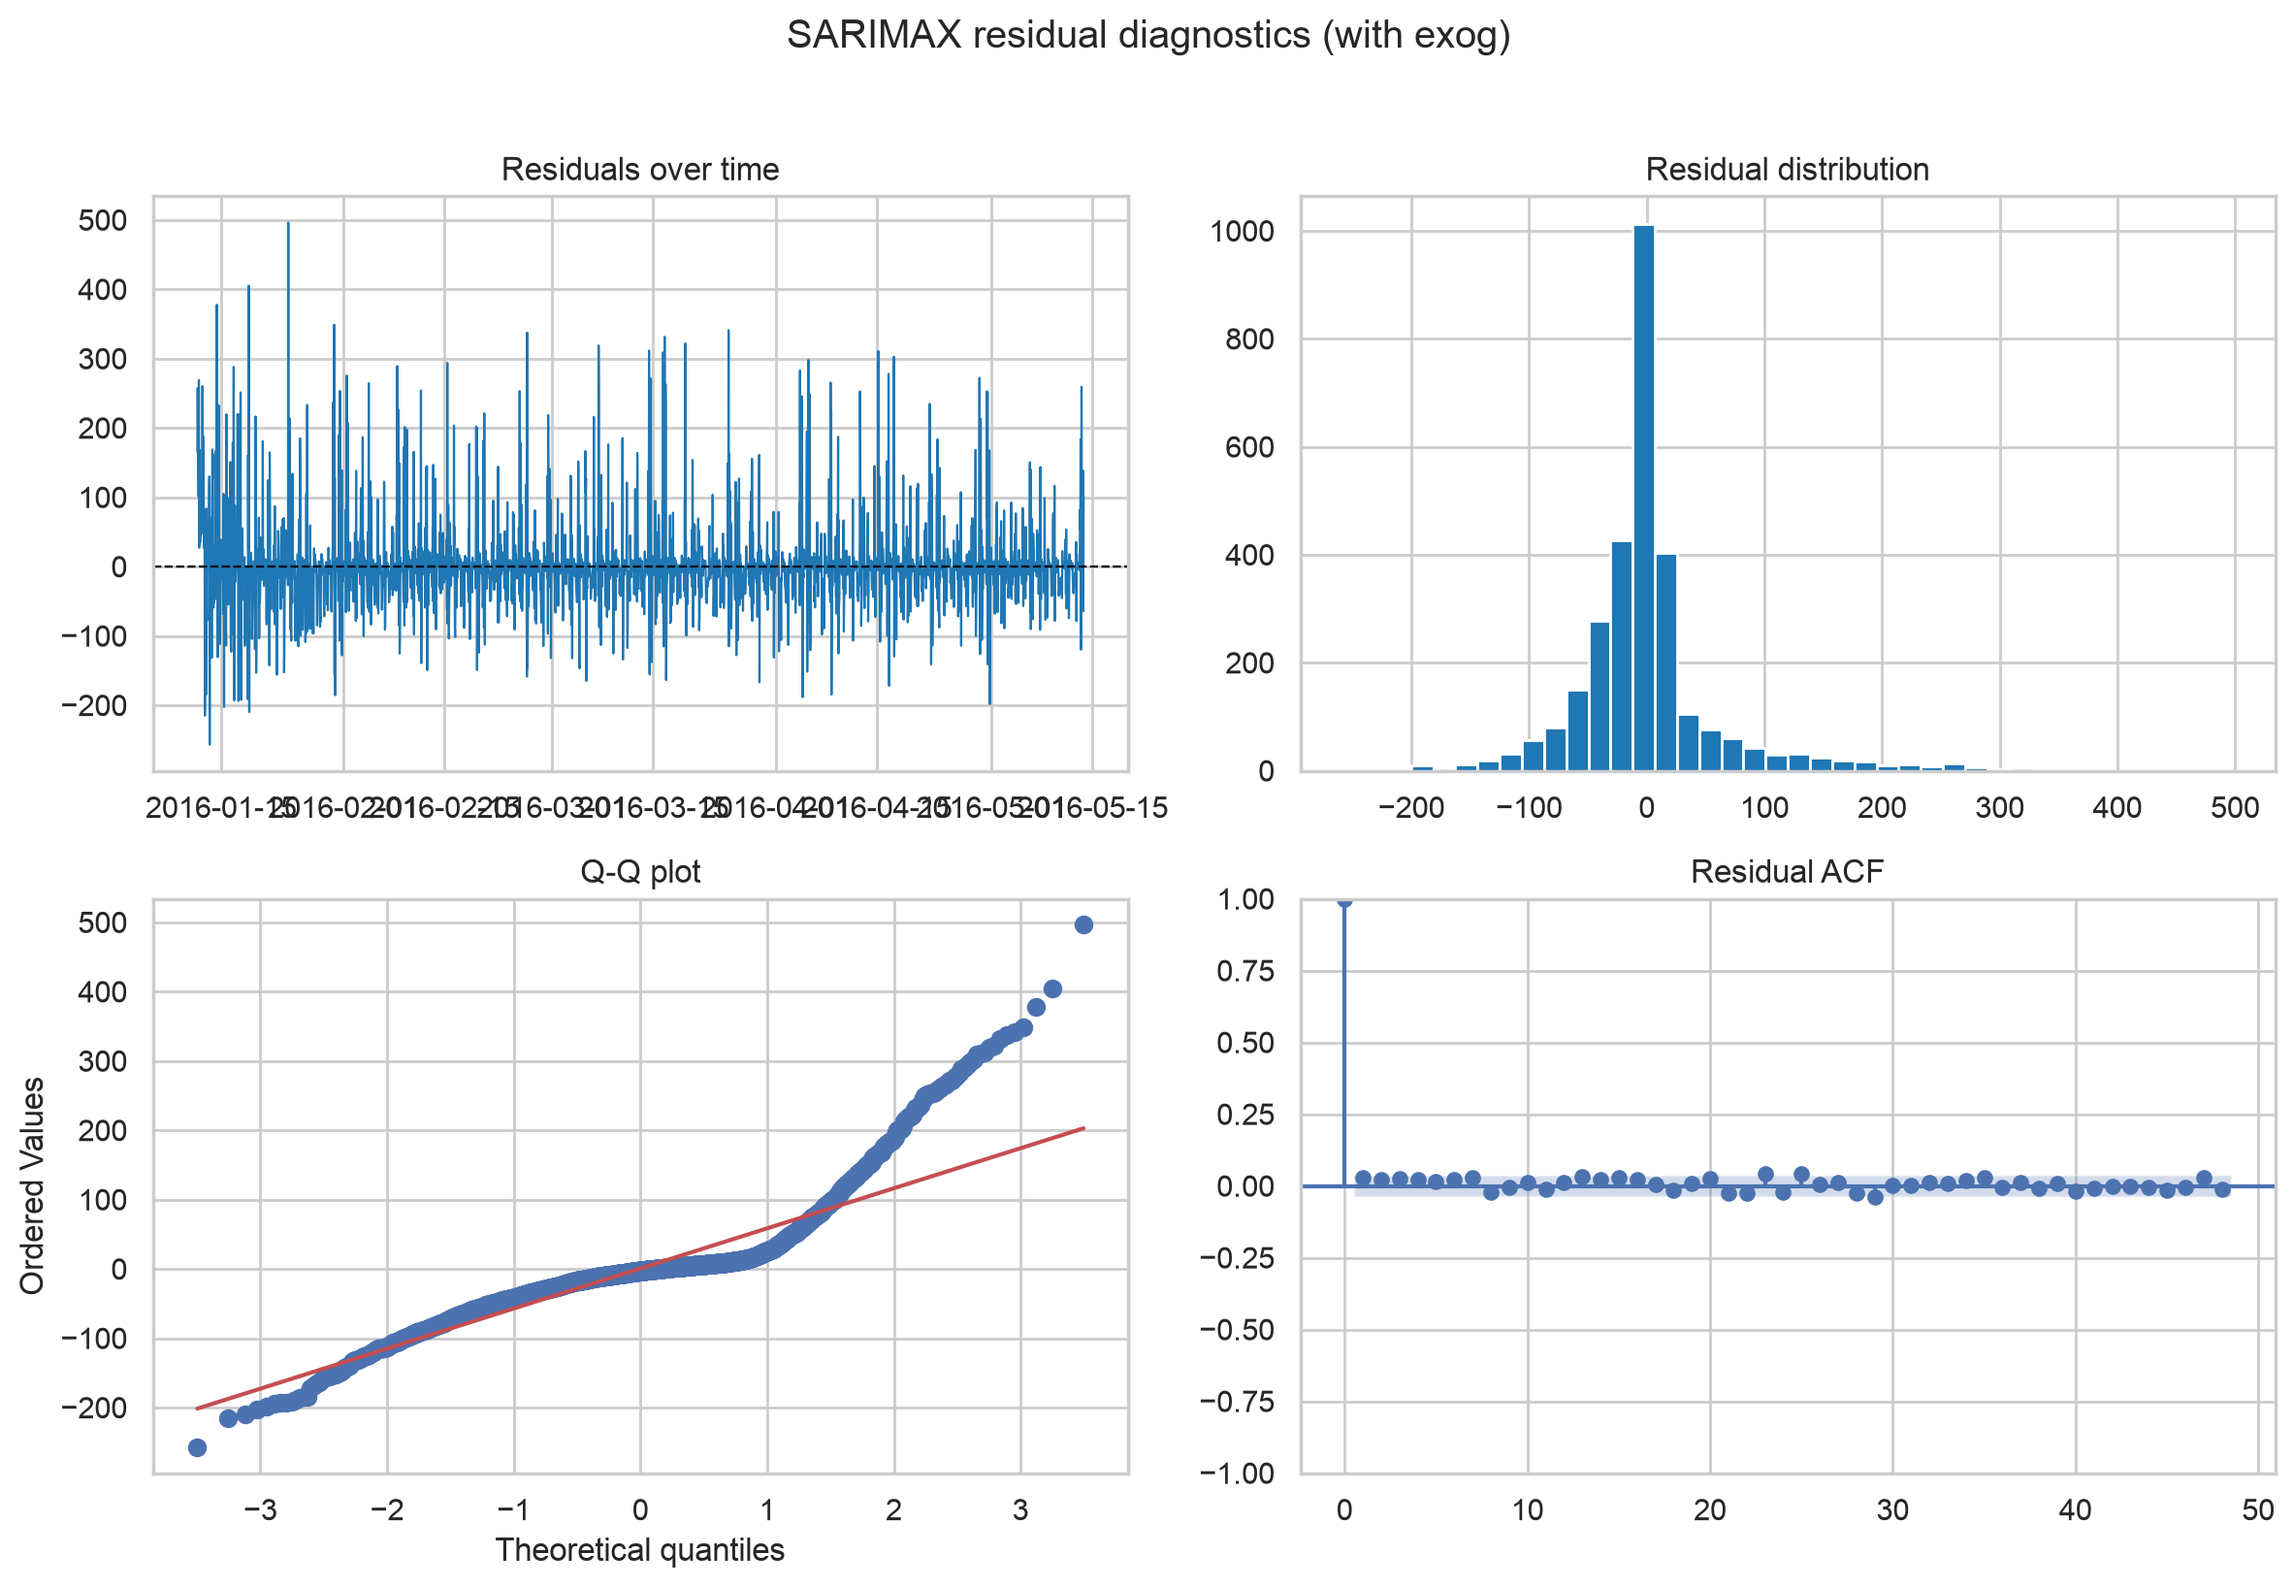
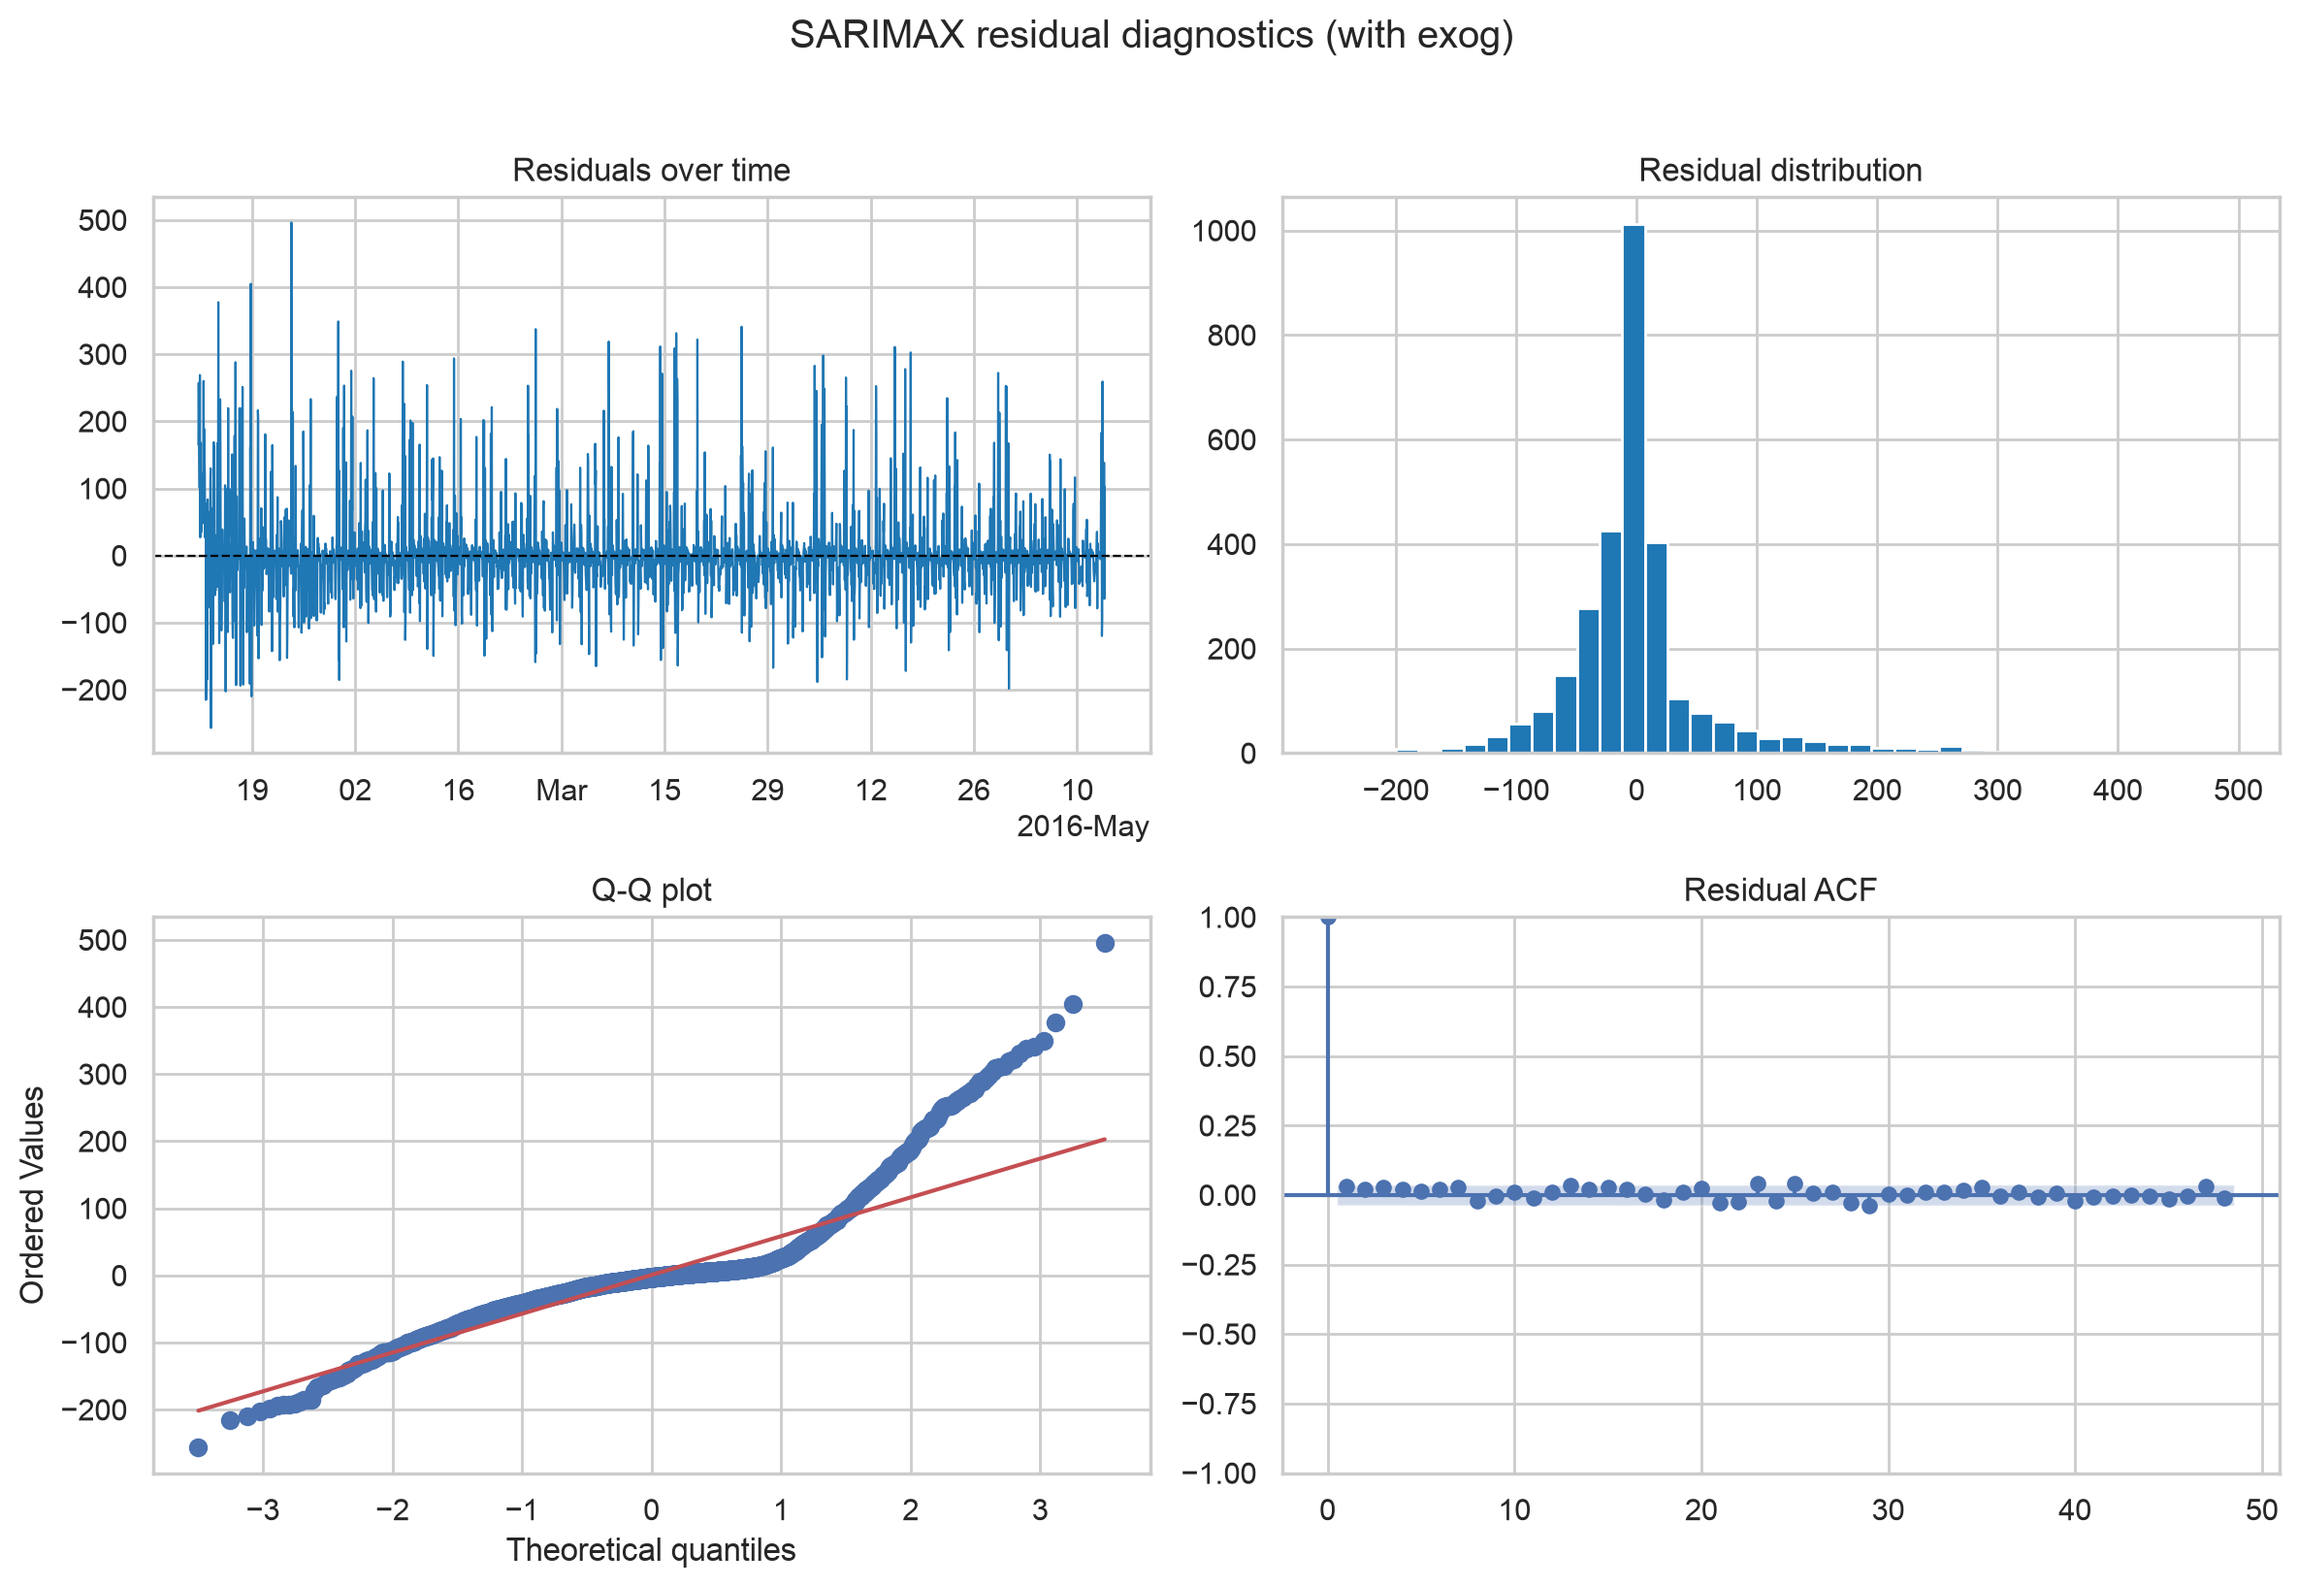
improvement to figure 8 x axis labels

diff --git a/src/appliance_energy/plotting.py b/src/appliance_energy/plotting.py
@@ -8,6 +8,7 @@ of the modelling modules keeps those testable and this one visual-only.
 
 from __future__ import annotations
 
+import matplotlib.dates as mdates
 import matplotlib.pyplot as plt
 import pandas as pd
 import seaborn as sns
@@ -109,6 +110,13 @@ def plot_residual_diagnostics(residuals: pd.Series, title: str = "Residual diagn
     axes[0, 0].plot(residuals.index, residuals.values, linewidth=0.8, color="tab:blue")
     axes[0, 0].axhline(0, color="black", linewidth=0.8, linestyle="--")
     axes[0, 0].set_title("Residuals over time")
+    # Weekly-spaced ticks with a compact "01 Feb" style label - the
+    # default datetime locator/formatter crams in far too many
+    # timestamps for a ~3000-hour index and the labels overlap into an
+    # unreadable block. A fixed weekly locator plus ConciseDateFormatter
+    # keeps a handful of clean, evenly-spaced labels instead.
+    axes[0, 0].xaxis.set_major_locator(mdates.WeekdayLocator(interval=2))
+    axes[0, 0].xaxis.set_major_formatter(mdates.ConciseDateFormatter(axes[0, 0].xaxis.get_major_locator()))
 
     axes[0, 1].hist(residuals.values, bins=40, color="tab:blue", edgecolor="white")
     axes[0, 1].set_title("Residual distribution")
